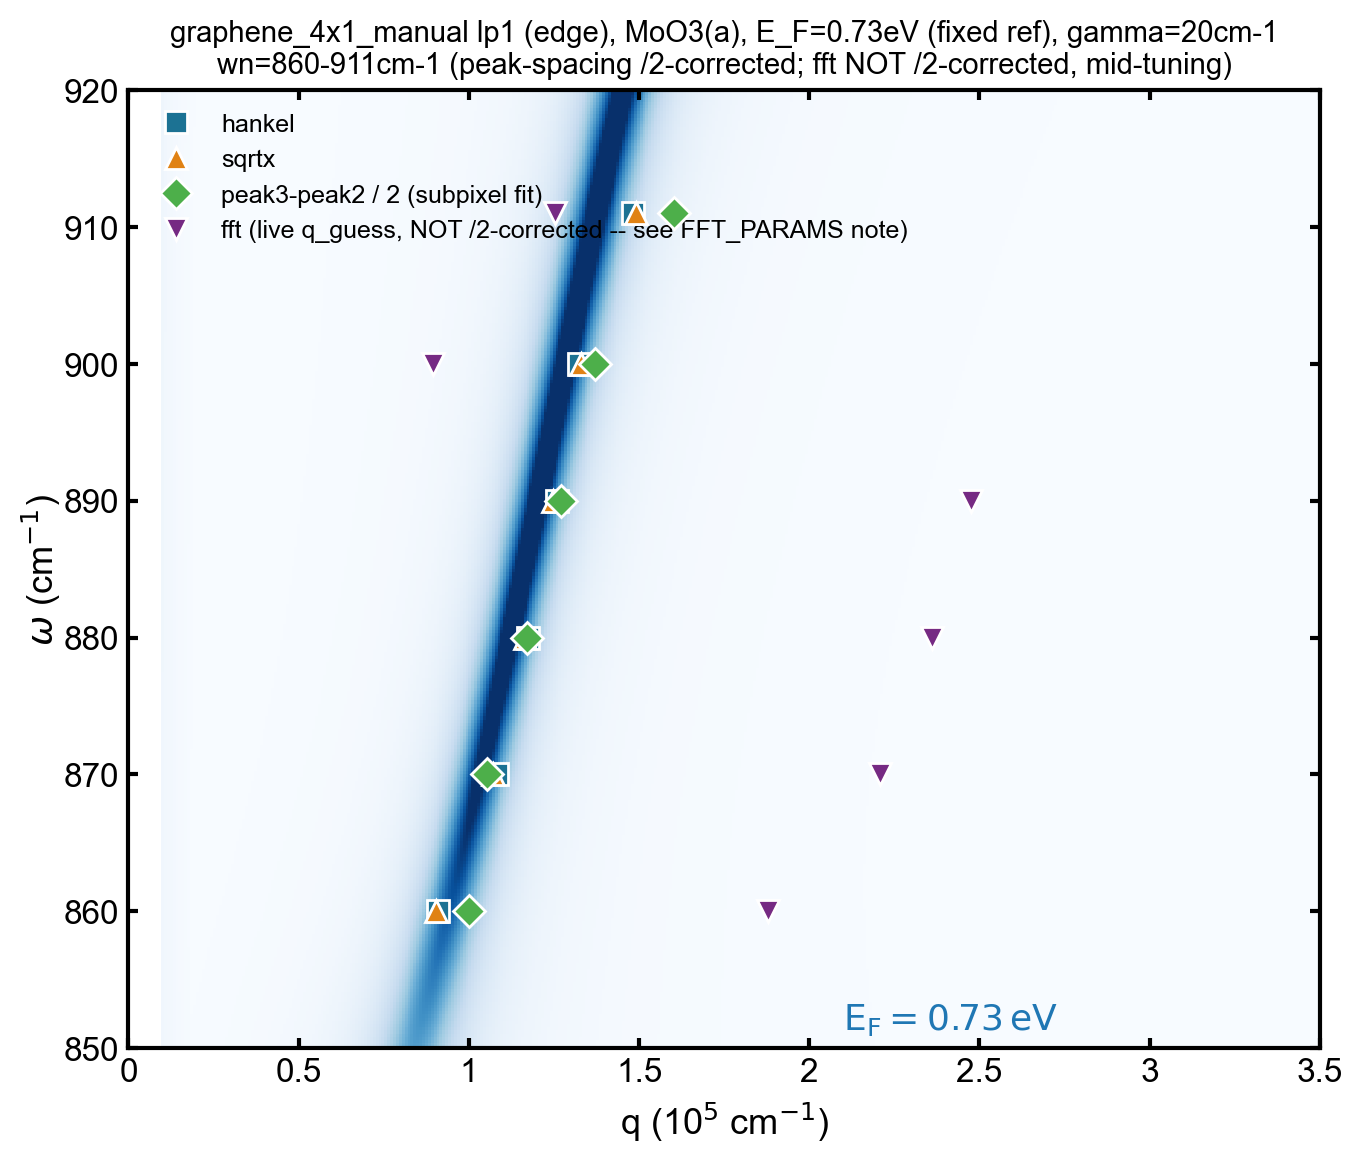
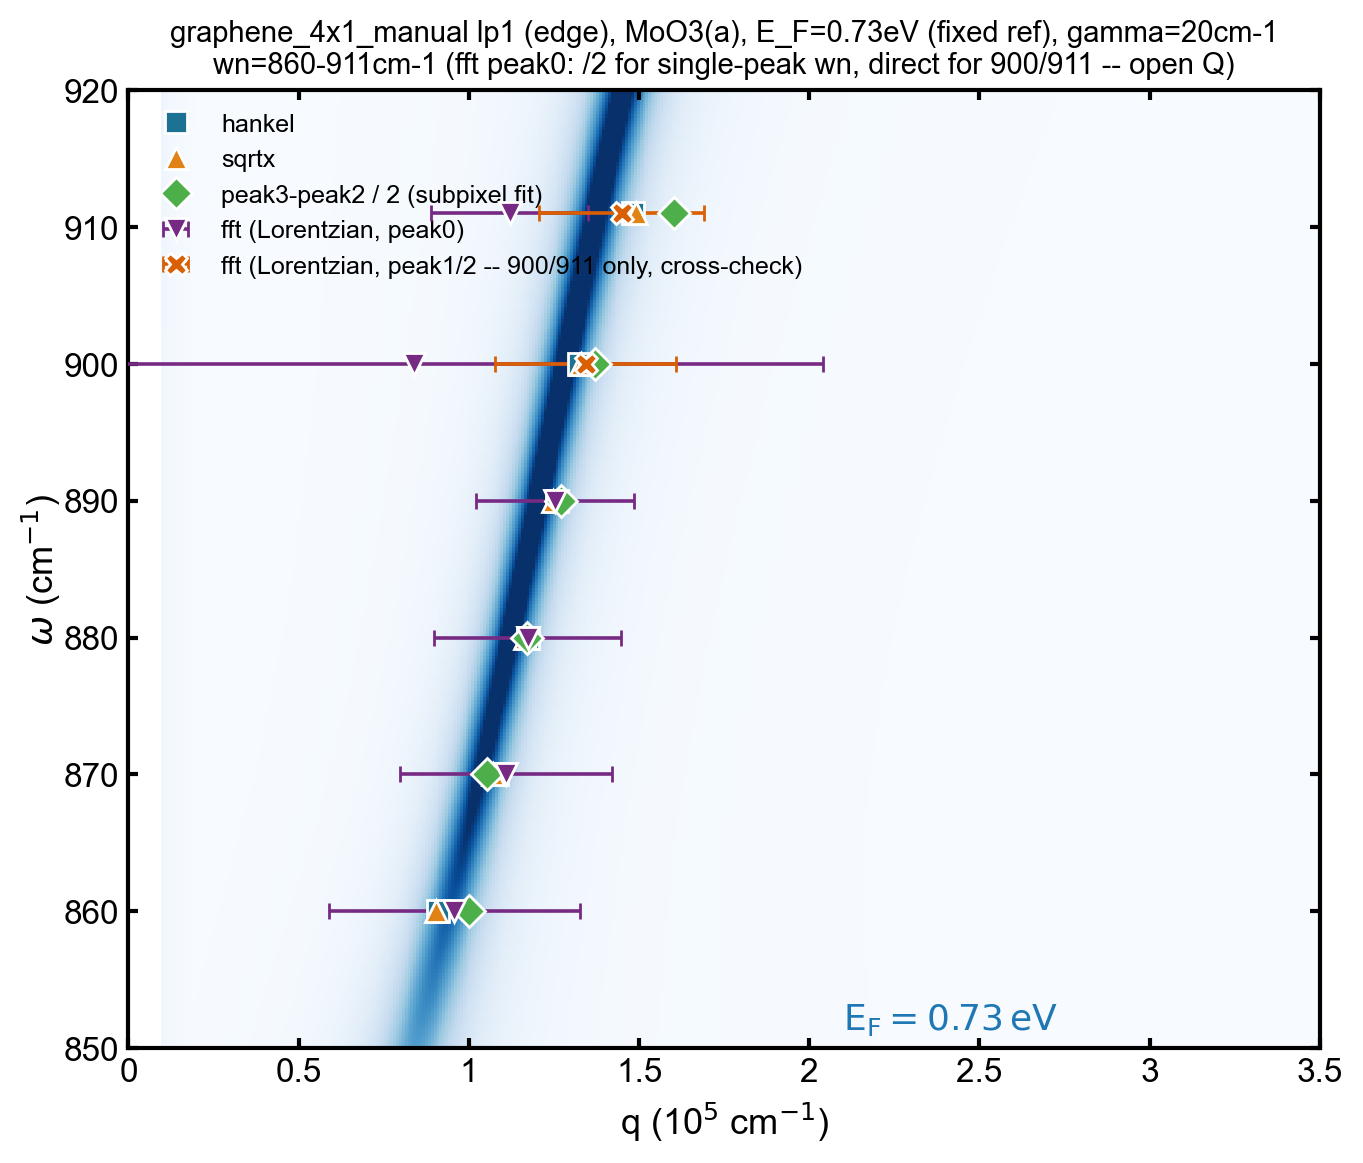
Add Lorentzian fft (with FWHM error bars) to peak-spacing rp plot; flag 900/911 open Q
fft_q now uses peak_method='lorentzian' + fit_window with the user's freshly-retuned
per-wn q_guess/search_window/fit_window. Single-peak wn (860-890, "2q" only resolved)
keep the /2 correction; two-peak wn (900/911, edge "q" peak now separately visible)
add both peak0-direct and a peak1/2 cross-check, plotted with FWHM/2 error bars.

Open question, not resolved: at 900/911cm-1 the peak1/2 cross-check tracks the ridge
much better than peak0 direct (900cm-1's peak0 fit is essentially unconstrained,
FWHM=1.2) -- contradicts the working hypothesis that peak0 already gives "q" directly
at these wn. Recorded in log_and_conventions.md, not acted on further this round.

diff --git a/scripts/peak_spacing_crosscheck_graphene_4x1_lp1.py b/scripts/peak_spacing_crosscheck_graphene_4x1_lp1.py
@@ -64,19 +64,28 @@ WN_PARAMS = {
               xr_range_rs=(0.32, 1.5), lam0_guess_um=0.40),
 }
 
-# FFT xr/q_guess, re-read live from the notebook on 2026-07-16 -- NOTE these are
-# mid-tuning and inconsistent right now: 860/870/880 have a single q_guess (~2, i.e.
-# guessing "2q" directly per the q/2q finding), 890 similarly (2.5), but 900/911 still
-# have the older two-value [q_guess1, q_guess2] ("q, not 2q" convention). fft_q below is
-# computed AS-IS from whatever's live -- NOT /2-corrected, since the guess convention
-# isn't uniform yet. Treat the fft points on the plot with that caveat in mind.
+# FFT xr/q_guess/search_window/fit_window, re-read live from the notebook on 2026-07-16
+# (user finished retuning all 6 wn with peak_method='lorentzian' + the new fit_window
+# param, see envsetting/snippet/dispersion_fitting.py 2026-07-16 log entry).
+#
+# OPEN QUESTION, not resolved -- record only, do not "fix" without discussing further:
+# 860/870/880/890 have a single q_guess (targeting "2q" directly, since at these wn the
+# FFT is 2q-dominated and there's no separately-resolvable "q" peak) -- for these,
+# fft_q = peaks[0]/2 (the /2-correction established earlier this session). But 900/911
+# now have TWO q_guess entries, because the edge-launched "q" peak has started to
+# separately resolve from the 2q peak by this wn -- for these, peak[0] (smaller q_guess,
+# ~1.2-1.6) is claimed to correspond to "q" directly (no /2 needed), while peak[1]
+# (~2.2-3.0) is presumably still "2q" (would need /2). Which of these two candidates
+# (peak0 direct, or peak1/2) is the more reliable "q" estimate at 900/911 is NOT yet
+# known -- both are computed and plotted below (fft_q = peak0 direct; fft_q_peak2_div2 =
+# peak1/2, only populated for 900/911) so they can be visually compared.
 FFT_PARAMS = {
-    860: dict(xr=(0.31, 1.2), q_guess=[2]),
-    870: dict(xr=(0.36, 1.5), q_guess=[2]),
-    880: dict(xr=(0.34, 1.5), q_guess=[2]),
-    890: dict(xr=(0.32, 1.5), q_guess=[2.5]),
-    900: dict(xr=(0.33, 1.5), q_guess=[1.2, 2.2]),
-    911: dict(xr=(0.32, 1.5), q_guess=[1.6, 3.0]),
+    860: dict(xr=(0.31, 1.2), q_guess=[1.8], search_window=0.2, fit_window=0.5),
+    870: dict(xr=(0.36, 1.5), q_guess=[2],   search_window=0.3, fit_window=0.3),
+    880: dict(xr=(0.34, 1.5), q_guess=[2],   search_window=0.3, fit_window=0.3),
+    890: dict(xr=(0.32, 1.5), q_guess=[2.5], search_window=0.3, fit_window=0.3),
+    900: dict(xr=(0.33, 1.5), q_guess=[1.2, 2.2], search_window=0.3, fit_window=1.0),
+    911: dict(xr=(0.32, 1.5), q_guess=[1.6, 3.0], search_window=0.3, fit_window=1.0),
 }
 
 rows = []
@@ -91,9 +100,11 @@ for wn, p in WN_PARAMS.items():
     plt.close(fig_cht)
     cht_q = cht_results['q_p_1e5cm_1']
 
-    # FFT: same complex-FFT spectrum + windowed-peak-search convention as
-    # nanoftir_Shizhe.run_wn_comparison uses for the pkl's official "fft" q_p (nearest
-    # q_guess[0]) -- current live xr/q_guess from the notebook, see FFT_PARAMS note above.
+    # FFT: complex-FFT spectrum, Lorentzian peak fit (peak_method='lorentzian' +
+    # fit_window, see envsetting/snippet/dispersion_fitting.py 2026-07-16 fix) with the
+    # user's freshly-retuned per-wn q_guess/search_window/fit_window. See the FFT_PARAMS
+    # "OPEN QUESTION" note above for the single-peak (2q, /2-corrected) vs two-peak
+    # (peak0=q direct, peak1=2q also /2-corrected as a cross-check) extraction logic.
     fp = FFT_PARAMS[wn]
     df_target = loaded['df_target']
     amp_raw, phase_raw = df_target['O3A'], df_target['O3P']
@@ -101,10 +112,23 @@ for wn, p in WN_PARAMS.items():
     amp_osc = amp_raw - savgol_filter(amp_raw, window_length=wlen, polyorder=2)
     fft_out = nanof.plot_channel_fft(
         df_target['distance_um'], amp_osc, phase_raw, label='O3', wn=wn_str,
-        xr=fp['xr'], q_range=(0, 10), window='hann', pad_factor=3.0,
-        q_guess=fp['q_guess'], plot=False)
-    fft_peaks = [pk for pk in fft_out['peaks_complex']['peaks'] if pk is not None]
-    fft_q = fft_peaks[0] / 10.0 if fft_peaks else np.nan  # um^-1 -> 1e5 cm^-1
+        xr=fp['xr'], q_range=(0, 10), window='hann', pad_factor=3.0, peak_method='lorentzian',
+        q_guess=fp['q_guess'], search_window=fp['search_window'], fit_window=fp['fit_window'], plot=False)
+    fft_pk = fft_out['peaks_complex']['peaks']
+    fft_fw = fft_out['peaks_complex']['fwhm']
+
+    fft_q_peak2_div2 = fft_q_peak2_div2_fwhm = np.nan
+    if len(fp['q_guess']) == 1:
+        # single peak = "2q" -> /2 to get q, per the earlier session-wide finding
+        fft_q = fft_pk[0] / 10.0 / 2 if fft_pk[0] is not None else np.nan
+        fft_q_fwhm = fft_fw[0] / 10.0 / 2 if fft_fw[0] is not None else np.nan
+    else:
+        # two peaks: peak0 claimed = "q" directly (no /2); peak1 = "2q" cross-check, /2'd
+        fft_q = fft_pk[0] / 10.0 if fft_pk[0] is not None else np.nan
+        fft_q_fwhm = fft_fw[0] / 10.0 if fft_fw[0] is not None else np.nan
+        if len(fft_pk) > 1 and fft_pk[1] is not None:
+            fft_q_peak2_div2 = fft_pk[1] / 10.0 / 2
+            fft_q_peak2_div2_fwhm = fft_fw[1] / 10.0 / 2
 
     amplp = pd.DataFrame({'distance_um': x_f, f'{wn_str}_O3A': sig_f})
     outs, fig_rs, _ = nanof.compare_cavity_models(
@@ -171,10 +195,13 @@ for wn, p in WN_PARAMS.items():
         interval_23 = q_23 = np.nan
     q_avg12_23 = np.nan  # dropped per user request -- peak2-peak3 alone is the reliable pair
 
-    rows.append(dict(wn=wn, cht_q=cht_q, hankel_q=hankel_q, sqrtx_q=sqrtx_q, fft_q=fft_q,
+    rows.append(dict(wn=wn, cht_q=cht_q, hankel_q=hankel_q, sqrtx_q=sqrtx_q,
+                      fft_q=fft_q, fft_q_fwhm=fft_q_fwhm,
+                      fft_q_peak2_div2=fft_q_peak2_div2, fft_q_peak2_div2_fwhm=fft_q_peak2_div2_fwhm,
                       n_peaks=len(peaks_idx), interval_23_um_fit=interval_23, q_peak23_fit=q_23))
-    print(f'{wn}cm-1: CHT={cht_q:.3f}  Hankel={hankel_q:.3f}  sqrtx={sqrtx_q:.3f}  FFT={fft_q:.3f}  '
-          f'n_peaks={len(peaks_idx)}  q(peak2-3, subpixel fit)={q_23:.3f}')
+    print(f'{wn}cm-1: CHT={cht_q:.3f}  Hankel={hankel_q:.3f}  sqrtx={sqrtx_q:.3f}  '
+          f'FFT={fft_q:.3f}+-{fft_q_fwhm/2:.3f}  FFT_peak2/2={fft_q_peak2_div2:.3f}  '
+          f'q(peak2-3, subpixel fit)={q_23:.3f}')
 
 df = pd.DataFrame(rows).sort_values('wn', ascending=False)
 
@@ -201,9 +228,16 @@ stack_4x1 = [('MoO3', 4.2), 'graphene', ('SiO2', 300)]
 FREQS = np.linspace(850, 920, 300)
 QS = np.linspace(1e4, 3.5e5, 400)
 
-sources = [('hankel', 'hankel_q', '#1c7293', 's'), ('sqrtx', 'sqrtx_q', '#e08214', '^'),
-           ('peak3-peak2 / 2 (subpixel fit)', 'q_peak23_fit_div2', '#4daf4a', 'D'),
-           ('fft (live q_guess, NOT /2-corrected -- see FFT_PARAMS note)', 'fft_q', '#762a83', 'v')]
+# 5th tuple element = FWHM column for an x-direction error bar (None = no error bar).
+# fft_q's error bar is FWHM/2 (standard "linewidth as uncertainty" convention). The
+# fft_q_peak2_div2 source (900/911 only, all-NaN elsewhere so it silently drops out of
+# the other 4 wn) is the OPEN QUESTION cross-check -- see FFT_PARAMS note above.
+sources = [('hankel', 'hankel_q', '#1c7293', 's', None),
+           ('sqrtx', 'sqrtx_q', '#e08214', '^', None),
+           ('peak3-peak2 / 2 (subpixel fit)', 'q_peak23_fit_div2', '#4daf4a', 'D', None),
+           ('fft (Lorentzian, peak0)', 'fft_q', '#762a83', 'v', 'fft_q_fwhm'),
+           ('fft (Lorentzian, peak1/2 -- 900/911 only, cross-check)', 'fft_q_peak2_div2', '#d95f02', 'X',
+            'fft_q_peak2_div2_fwhm')]
 
 # ---- Which doping level is actually correct: fit E_F per source (6 points each) ----
 # Same "maximize sum of Im(r_p) at the (w,q) data points" recipe as rp_dispersion_plot.ipynb
@@ -226,8 +260,11 @@ def fit_Ef(w_data, q_data_1e5, gamma=GAMMA, ef_bounds=(0.1, 1.5)):
 
 fitted_ef = {}
 print('\nFitted E_F per source (6 pts, wn=860-911cm-1):')
-for label, col, color, marker in sources:
+for label, col, color, marker, err_col in sources:
     pts_df = df[['wn', col]].dropna()
+    if len(pts_df) < 3:
+        print(f'  {label:>20s}: skipped E_F fit -- only {len(pts_df)} pts (too few to fit meaningfully)')
+        continue
     ef_fit = fit_Ef(pts_df['wn'].values, pts_df[col].values)
     fitted_ef[label] = ef_fit
     print(f'  {label:>20s}: E_F = {ef_fit:.3f} eV')
@@ -251,14 +288,17 @@ for ef_label, EF_REF in ef_scan:
     fig, ax = plt.subplots(figsize=(7, 6))
     rp_schematic(stack_4x1, materials_4x1, subs=SUBS, freqs=FREQS, qs=QS,
                  Ef=EF_REF, gamma=GAMMA, figAx=(fig, ax), vmin=0, vmax=8, show_Ef=True, ytickspacing=10)
-    for label, col, color, marker in sources:
-        pts_df = df[['wn', col]].dropna()
+    for label, col, color, marker, err_col in sources:
+        cols = ['wn', col] + ([err_col] if err_col else [])
+        pts_df = df[cols].dropna(subset=['wn', col])
         if len(pts_df):
-            # QS/the rp_schematic axes are in raw cm^-1 -- col values are in 1e5 cm^-1, convert
-            ax.plot(pts_df[col].values * 1e5, pts_df['wn'].values, marker, color=color, ms=8,
-                    mec='white', mew=1, ls='none', label=label, zorder=6)
+            # QS/the rp_schematic axes are in raw cm^-1 -- col/fwhm values are in 1e5 cm^-1, convert
+            xerr = (pts_df[err_col].values * 1e5 / 2) if err_col else None  # FWHM/2 as the error bar
+            ax.errorbar(pts_df[col].values * 1e5, pts_df['wn'].values, xerr=xerr, marker=marker,
+                        color=color, ms=8, mec='white', mew=1, ls='none', capsize=3, elinewidth=1.3,
+                        label=label, zorder=6)
     ax.set_title(f'{DATASET} {LP} (edge), MoO3(a), E_F={EF_REF}eV (fixed ref), gamma={GAMMA}cm-1\n'
-                 f'wn=860-911cm-1 (peak-spacing /2-corrected; fft NOT /2-corrected, mid-tuning)', fontsize=10.5)
+                 f'wn=860-911cm-1 (fft peak0: /2 for single-peak wn, direct for 900/911 -- open Q)', fontsize=10.5)
     ax.legend(frameon=False, fontsize=9, loc='upper left')
     fig.tight_layout()
     out_path = f'{SAVE_DIR}/rp_peak_spacing_crosscheck_860to911_Ef{ef_label}.png'

diff --git a/log_and_conventions.md b/log_and_conventions.md
@@ -658,3 +658,37 @@ Read it deliberately when historical context is needed.
 - Logged the shared-module change in `envsetting/PROJECTS.md`'s cross-project "Known
   issues" section too, per that file's own convention (future sessions in other projects
   read that file, not this one, to learn about shared-module changes).
+
+## 2026-07-16 fft added to the peak-spacing rp plot with FWHM error bars; open q/2q question at 900/911cm-1
+
+- User finished retuning FFT for all 6 wn (860-911cm-1) using `peak_method='lorentzian'`
+  + the new `fit_window` param: 860/870/880/890 keep a single `q_guess` (targeting "2q"
+  directly, consistent with the low-wn 2q-dominance finding), but **900/911 now use two
+  `q_guess` entries** (`[1.2,2.2]` and `[1.6,3.0]`) since the edge-launched "q" peak has
+  started to resolve as its own separate feature in the FFT spectrum by this wn.
+- Updated `scripts/peak_spacing_crosscheck_graphene_4x1_lp1.py`: `fft_q` now computed
+  with `peak_method='lorentzian'` + each wn's live `search_window`/`fit_window`;
+  single-`q_guess` wn get `fft_q = peak0/2` (unchanged "2q" convention); two-`q_guess` wn
+  (900/911) get `fft_q = peak0` directly (per the user's hypothesis that peak0 now IS
+  "q") **plus** a separate cross-check column `fft_q_peak2_div2 = peak1/2` (still
+  treating the larger peak as "2q"), both plotted with FWHM/2 as an x-direction error bar.
+- **OPEN QUESTION, not resolved -- do not silently "fix" without re-discussing**: visually
+  and numerically, at both 900cm-1 and 911cm-1 the **`peak1/2` cross-check tracks the
+  ridge/hankel/sqrtx/peak-spacing far better than `peak0` direct**. 911cm-1: peak0 sits
+  notably left of the ridge (q~0.83) while peak1/2 lands almost exactly on it, matching
+  hankel/sqrtx/peak-spacing closely. 900cm-1: peak0's fit is essentially unconstrained
+  (FWHM=1.2, i.e. the error bar spans roughly q=0.5 to 2.0 -- not a meaningful
+  measurement), while peak1/2 sits right on the ridge. **This contradicts the working
+  hypothesis that peak0 directly gives "q" at these wn** -- more likely peak0 isn't yet
+  cleanly/independently resolved from the 2q feature at 900/911, and the old
+  "larger-peak-is-2q, /2 it" convention may still be the more reliable one even here.
+  Needs more wn (920+) and/or a cleaner q_guess/fit_window retune at 900/911 before
+  drawing a real conclusion.
+- Fitted E_F, all sources: hankel=0.695eV, sqrtx=0.700eV, peak3-peak2/2=0.688eV, fft
+  (peak0)=0.695eV -- fft(peak1/2) skipped (only 2 non-NaN points, 900/911, too few to fit
+  meaningfully on its own). The fft(peak0) E_F matching hankel so closely is partly
+  fortuitous given the open question above -- 900cm-1's huge uncertainty and 911cm-1's
+  undershoot may be averaging out in the fit rather than genuinely agreeing.
+- Regenerated all 9 E_F panels (0.60, 0.65-0.77 in 0.02 steps, 0.771) with the updated
+  5-source overlay (hankel/sqrtx/peak-spacing/fft-peak0/fft-peak1÷2) + error bars, same
+  `graphene_4x1_manual_lp1_peak_spacing_crosscheck_v1/` folder, for the user to compare.
